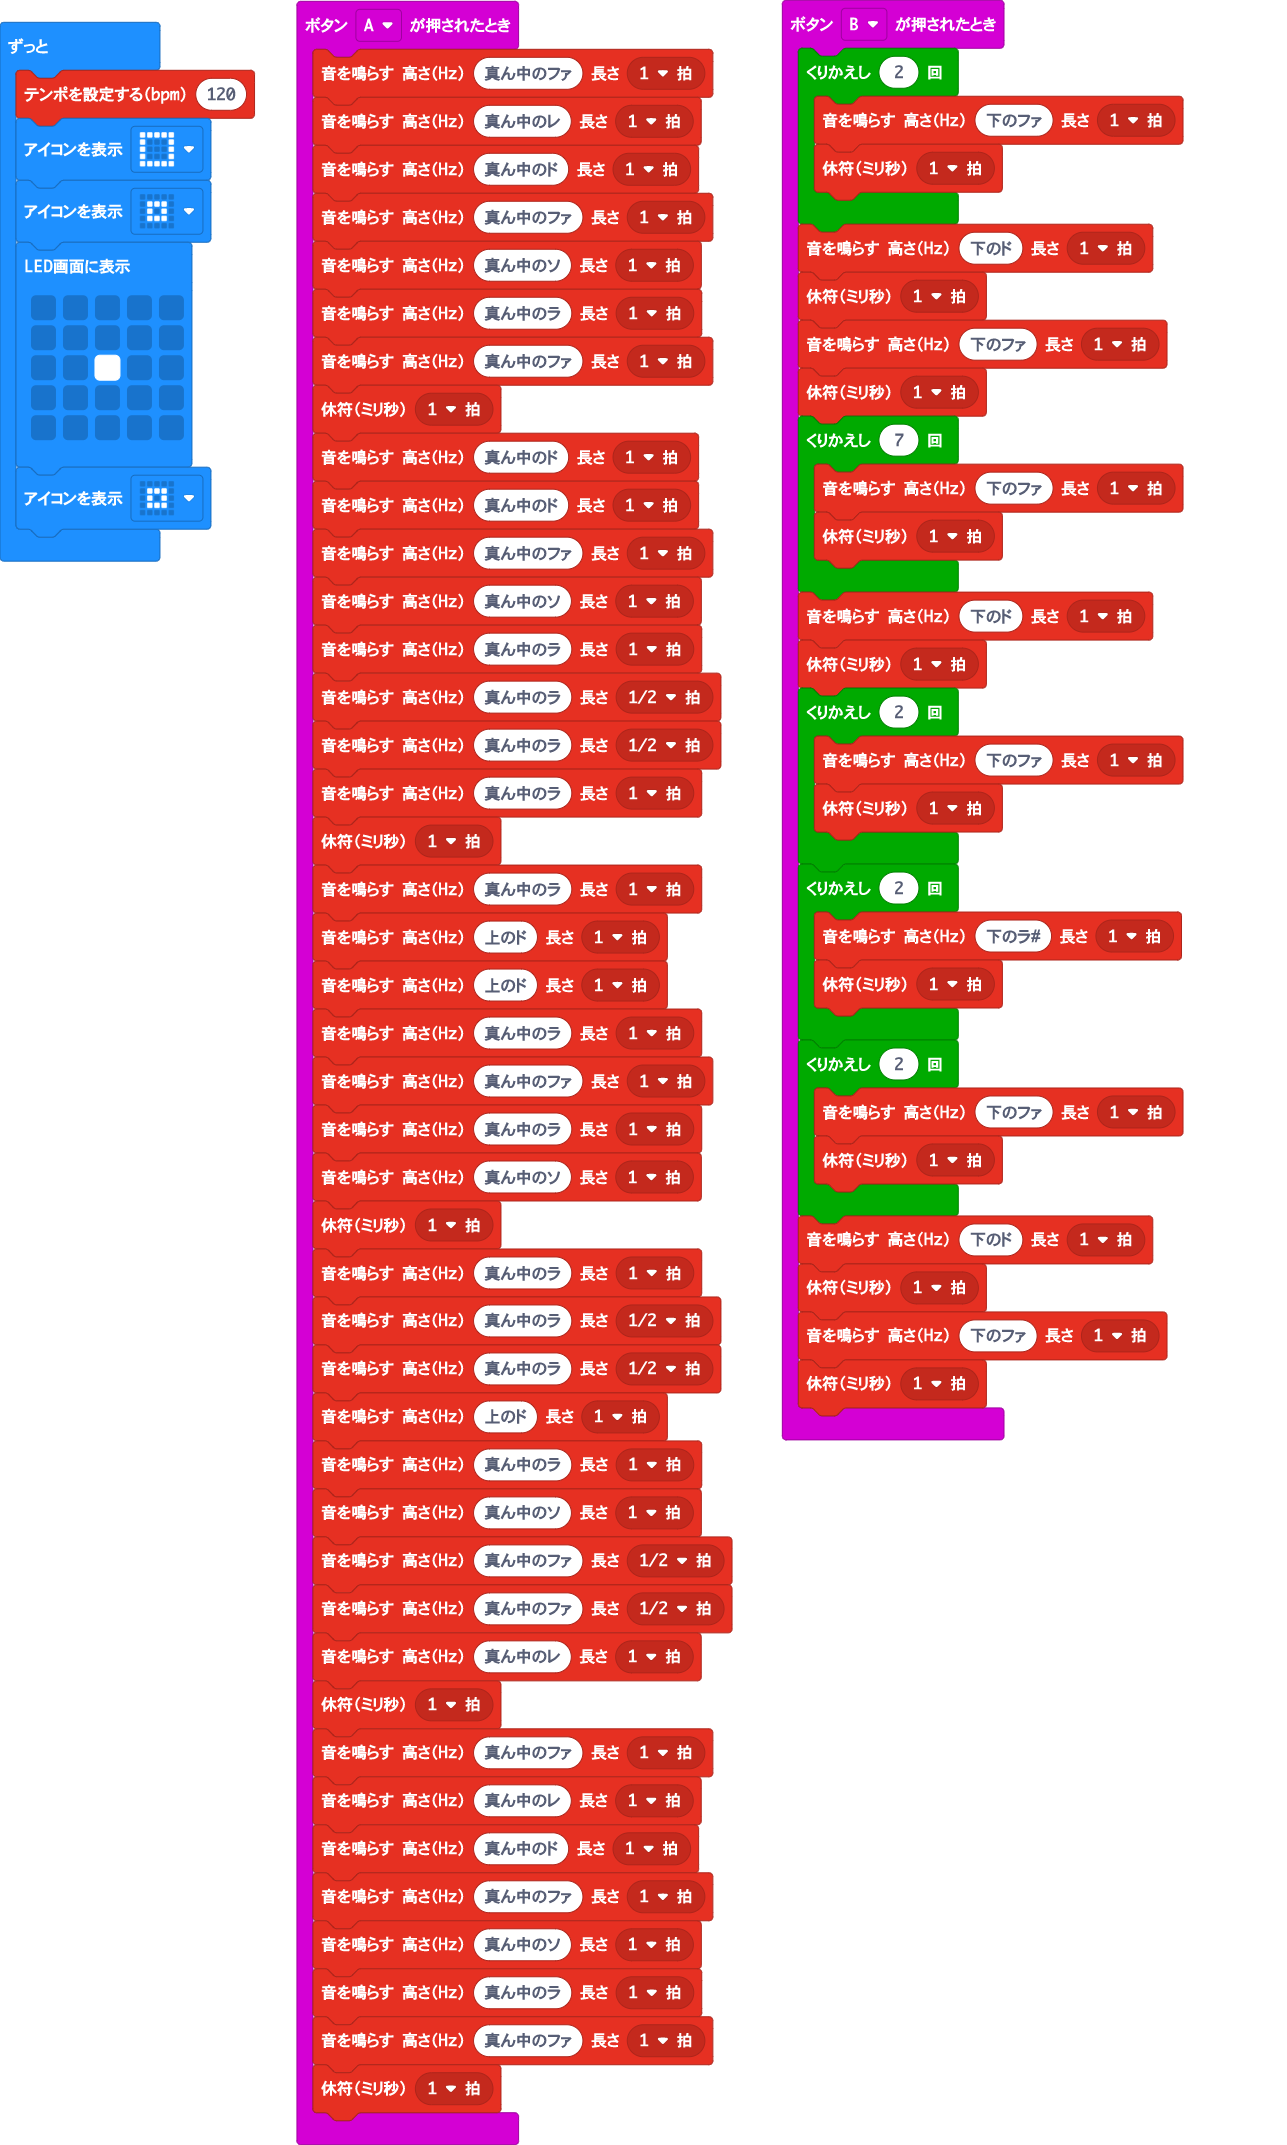
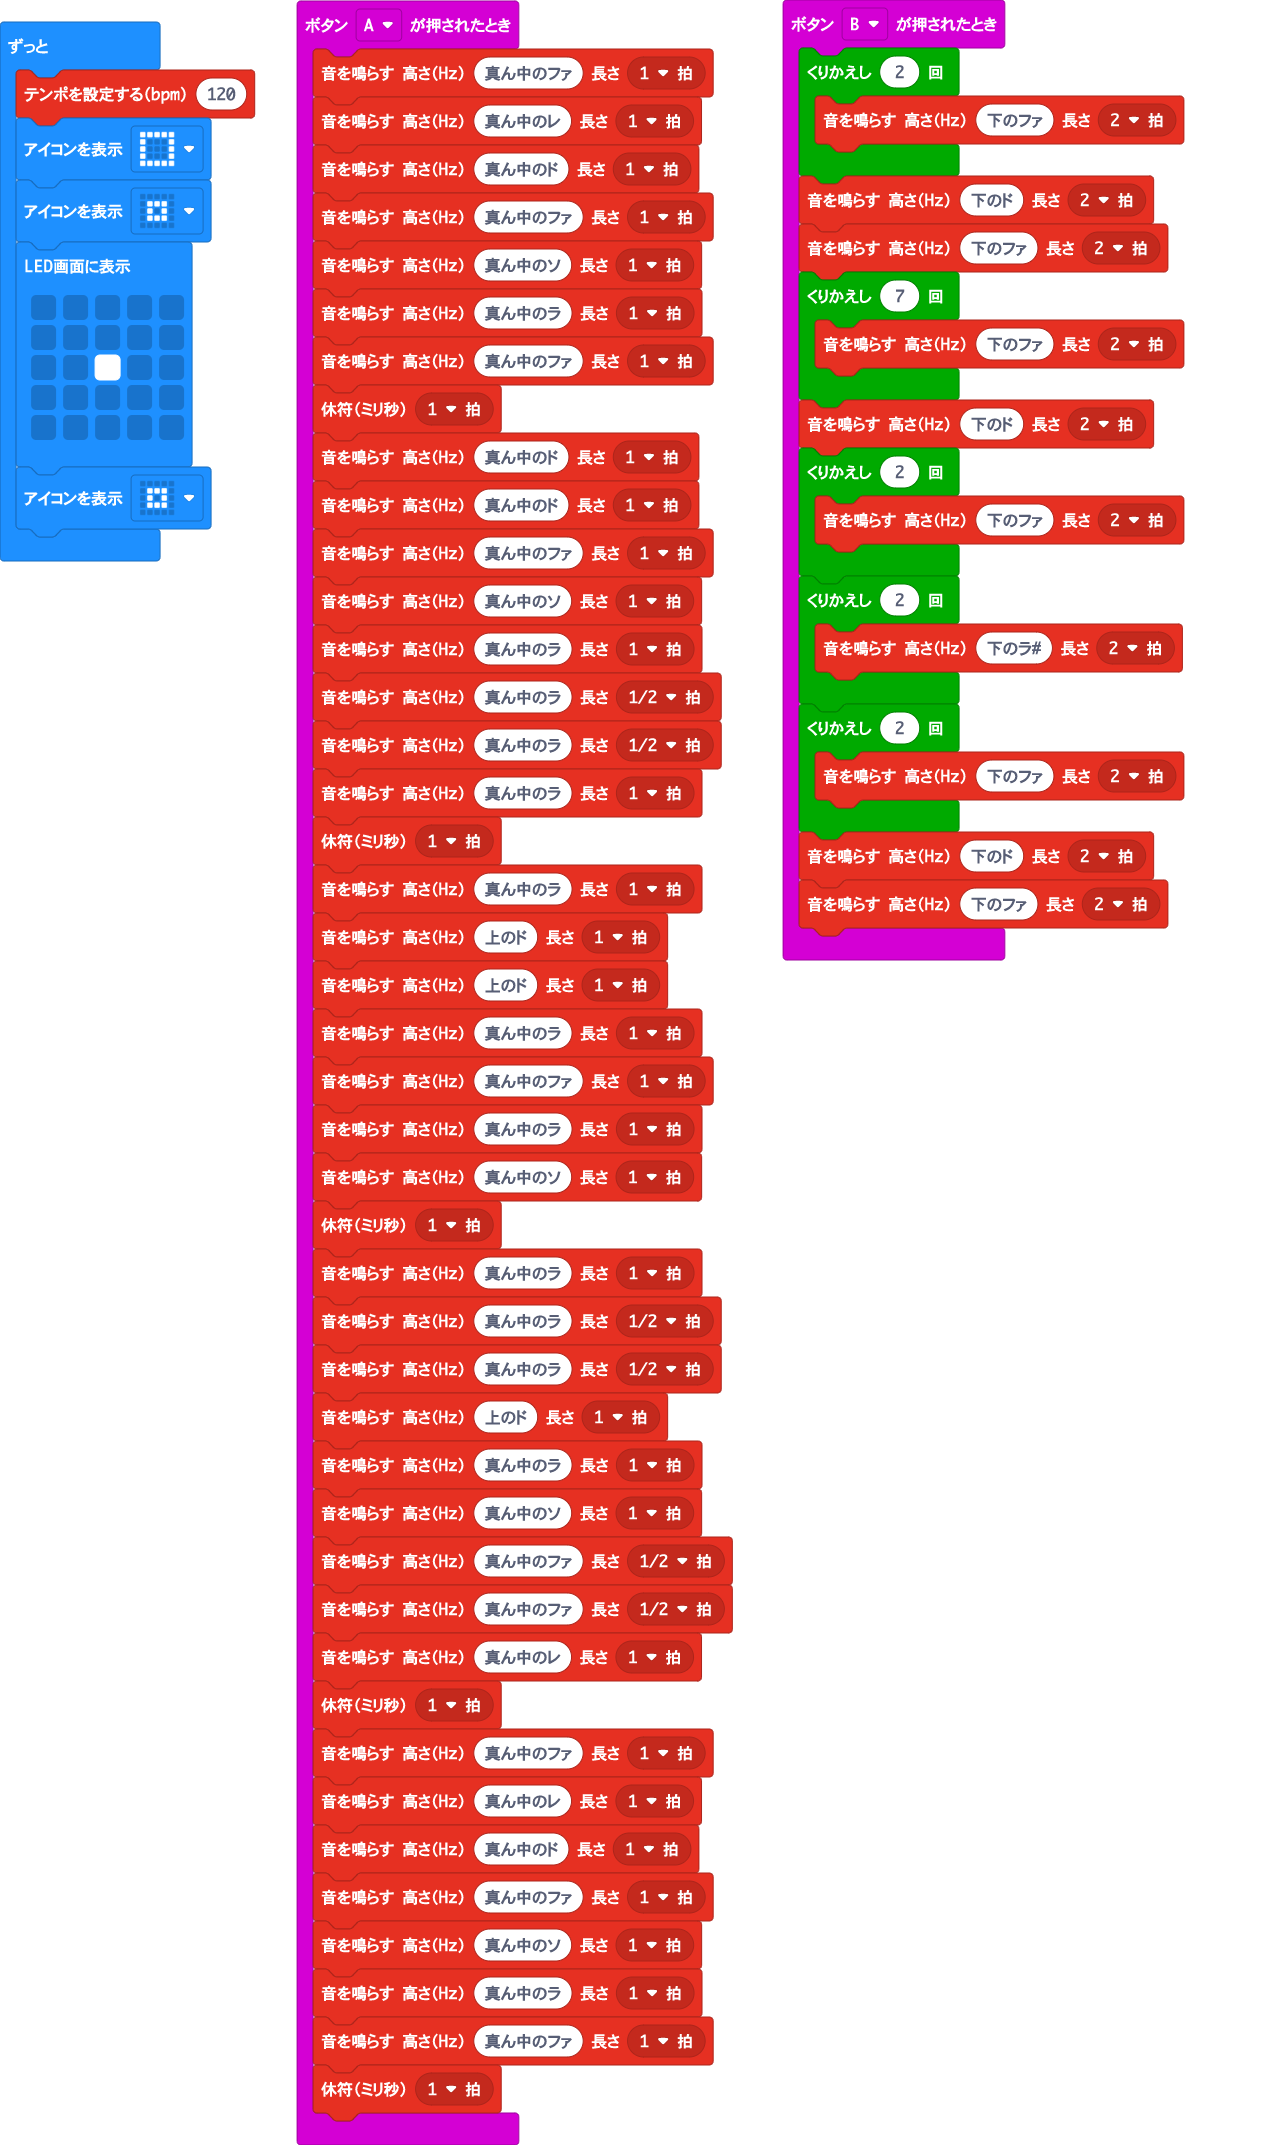
更新 main.blocks, main.ts

diff --git a/main.ts b/main.ts
@@ -45,35 +45,25 @@ input.onButtonPressed(Button.A, function () {
 })
 input.onButtonPressed(Button.B, function () {
     for (let index = 0; index < 2; index++) {
-        music.playTone(175, music.beat(BeatFraction.Whole))
-        music.rest(music.beat(BeatFraction.Whole))
+        music.playTone(175, music.beat(BeatFraction.Double))
     }
-    music.playTone(131, music.beat(BeatFraction.Whole))
-    music.rest(music.beat(BeatFraction.Whole))
-    music.playTone(175, music.beat(BeatFraction.Whole))
-    music.rest(music.beat(BeatFraction.Whole))
+    music.playTone(131, music.beat(BeatFraction.Double))
+    music.playTone(175, music.beat(BeatFraction.Double))
     for (let index = 0; index < 7; index++) {
-        music.playTone(175, music.beat(BeatFraction.Whole))
-        music.rest(music.beat(BeatFraction.Whole))
+        music.playTone(175, music.beat(BeatFraction.Double))
     }
-    music.playTone(131, music.beat(BeatFraction.Whole))
-    music.rest(music.beat(BeatFraction.Whole))
+    music.playTone(131, music.beat(BeatFraction.Double))
     for (let index = 0; index < 2; index++) {
-        music.playTone(175, music.beat(BeatFraction.Whole))
-        music.rest(music.beat(BeatFraction.Whole))
+        music.playTone(175, music.beat(BeatFraction.Double))
     }
     for (let index = 0; index < 2; index++) {
-        music.playTone(233, music.beat(BeatFraction.Whole))
-        music.rest(music.beat(BeatFraction.Whole))
+        music.playTone(233, music.beat(BeatFraction.Double))
     }
     for (let index = 0; index < 2; index++) {
-        music.playTone(175, music.beat(BeatFraction.Whole))
-        music.rest(music.beat(BeatFraction.Whole))
+        music.playTone(175, music.beat(BeatFraction.Double))
     }
-    music.playTone(131, music.beat(BeatFraction.Whole))
-    music.rest(music.beat(BeatFraction.Whole))
-    music.playTone(175, music.beat(BeatFraction.Whole))
-    music.rest(music.beat(BeatFraction.Whole))
+    music.playTone(131, music.beat(BeatFraction.Double))
+    music.playTone(175, music.beat(BeatFraction.Double))
 })
 basic.forever(function () {
     music.setTempo(120)
